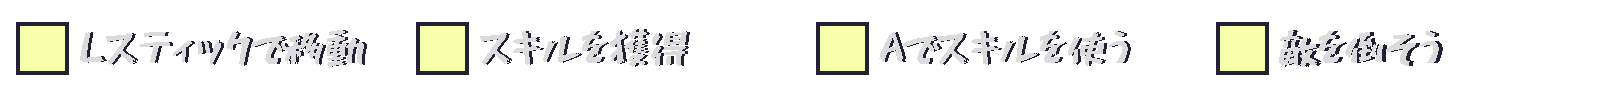
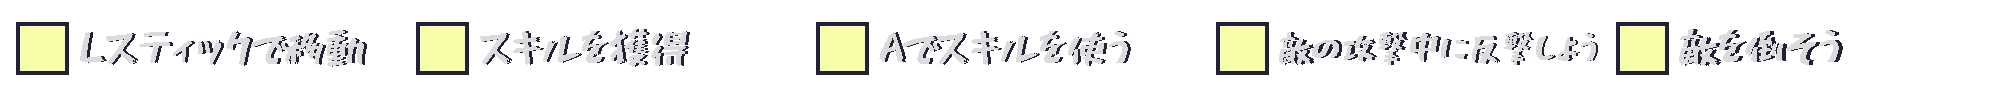
チュートリアルにカウンター追加(カウンタータスクを完了してない場合ダメージを喰らわない)

Changed region(s): [[0.0, 0.2188, 0.9375, 0.7812]]

diff --git a/SourceCode/gamesystem/character/InterEnemy.cpp b/SourceCode/gamesystem/character/InterEnemy.cpp
@@ -260,6 +260,7 @@ void InterEnemy::Collide(vector<unique_ptr<AttackArea>>& area) {
 					!GameStateManager::GetInstance()->GetCounter()) {
 					GameStateManager::GetInstance()->SetCounter(true);
 					damage *= 1.5f;
+					TutorialTask::GetInstance()->SetTaskFinish(true, TASK_COUNTER);
 				}
 				if (GameStateManager::GetInstance()->GetIsFivePower()) {
 					damage *= 1.2f;
@@ -287,6 +288,9 @@ void InterEnemy::Collide(vector<unique_ptr<AttackArea>>& area) {
 			m_Damege = true;
 			m_DamageTimer = {};
 			Helper::Clamp(damage, 0.0f, 999.0f);
+			if (m_EnemyTag == "Mob" && !TutorialTask::GetInstance()->GetTaskFinish(TASK_COUNTER)) {
+				damage = 0.0f;
+			}
 			m_HP -= damage;
 			GameStateManager::GetInstance()->DamageCheck((int)damage);
 			BirthDamage(damage);
@@ -295,7 +299,7 @@ void InterEnemy::Collide(vector<unique_ptr<AttackArea>>& area) {
 			if (name == "DRAIN") {
 				float rate = 0.5f;
 				player->HealPlayer(damage * rate);		//HP回復
-			} else if (name == "POISON") {
+			} else if (name == "POISON") {		//毒
 				m_Poison = true;
 				if (!m_IsVenom) {
 					m_PoisonToken += _area->GetPoisonToken();
@@ -304,12 +308,12 @@ void InterEnemy::Collide(vector<unique_ptr<AttackArea>>& area) {
 					m_SuperPoison = true;
 					m_PoisonToken += _area->GetPoisonToken() * 2;
 				}
-			} else if (name == "VENOM") {
+			} else if (name == "VENOM") {		//ヴェノム効果
 				if (m_Poison) {
 					m_PoisonToken *= 3;
 				}
 			}
-			else if (name == "FAR" && !m_Induction && m_NowWidth != PANEL_WIDTH - 1) {
+			else if (name == "FAR" && !m_Induction && m_NowWidth != PANEL_WIDTH - 1) {		//敵を吹き飛ばす
 				m_Induction = true;
 				m_InductionFrame = {};
 				for (int i = PANEL_WIDTH / 2; i < PANEL_WIDTH; i++) {
@@ -328,20 +332,18 @@ void InterEnemy::Collide(vector<unique_ptr<AttackArea>>& area) {
 					}
 				}
 			}
-			else if (name == "NEAR" && !m_Induction && m_NowWidth != PANEL_WIDTH / 2) {
+			else if (name == "NEAR" && !m_Induction && m_NowWidth != PANEL_WIDTH / 2) {		//敵を引き寄せる
 				m_Induction = true;
 				m_InductionFrame = {};
 				for(int i = PANEL_WIDTH - 1; i >= (PANEL_WIDTH / 2); i--) {
 
 					if (m_NowWidth == i) { continue; }
 					if (StagePanel::GetInstance()->GetisEnemyHit(i, m_NowHeight)) {
-
 						m_InductionPos = StagePanel::GetInstance()->GetPosition(i + 1, m_NowHeight).x;
 						break;
 					}
 					else {
 						if (i == PANEL_WIDTH / 2) {
-
 							m_InductionPos = StagePanel::GetInstance()->GetPosition(PANEL_WIDTH / 2, m_NowHeight).x;
 							break;
 						}

diff --git a/SourceCode/gamesystem/scene/TutorialTask.cpp b/SourceCode/gamesystem/scene/TutorialTask.cpp
@@ -25,13 +25,13 @@ void TutorialTask::Initialize() {
 			{ static_cast<float>(number_index_x) * l_Width_Cut, static_cast<float>(number_index_y) * l_Height_Cut },
 			{ static_cast<float>(l_Width_Cut), static_cast<float>(l_Height_Cut) });
 		tutorial[i].text->SetAnchorPoint({ 0.5f,0.5f });
-		tutorial[i].pos = { 1100.0f,200 + (80.0f * i) };
+		tutorial[i].pos = { 1020.0f,200 + (80.0f * i) };
 		tutorial[i].text->SetSize({ l_Width_Cut,l_Height_Cut });
 		tutorial[i].text->SetPosition(tutorial[i].pos);
 		tutorial[i].text->SetScale({ 0.8f });
 
 		tutorial[i].check = IKESprite::Create(ImageManager::TUTORIAL_CHECK, { 0.0f,0.0f });
-		tutorial[i].check->SetPosition({ 940.0f,200 + (80.0f * i) });
+		tutorial[i].check->SetPosition({ 860.0f,200 + (80.0f * i) });
 		tutorial[i].check->SetAnchorPoint({ 0.5f,0.5f });
 		tutorial[i].size = { 150.0f,150.0f };
 	}

diff --git a/SourceCode/gamesystem/scene/TutorialScene.cpp b/SourceCode/gamesystem/scene/TutorialScene.cpp
@@ -6,7 +6,7 @@
 #include <ImageManager.h>
 #include <TutorialTask.h>
 #include <Helper.h>
-#include "MobEnemy.h"
+#include "TutorialEnemy.h"
 #include <SceneManager.h>
 #include <StageBack.h>
 //��ԑJ��
@@ -65,7 +65,7 @@ void TutorialScene::Initialize(DirectXCommon* dxCommon) {
 
 	//敵
 	InterEnemy::SetPlayer(player_.get());
-	enemy = std::make_unique<MobEnemy>();
+	enemy = std::make_unique<TutorialEnemy>();
 	enemy->Initialize();
 
 	TutorialTask::GetInstance()->SetChoiceSkill(false);

diff --git a/SourceCode/gamesystem/scene/BattleScene.cpp b/SourceCode/gamesystem/scene/BattleScene.cpp
@@ -295,13 +295,12 @@ void BattleScene::BackDraw(DirectXCommon* dxCommon) {
 //ImGui
 void BattleScene::ImGuiDraw() {
 	//GameStateManager::GetInstance()->ImGuiDraw();
-	StagePanel::GetInstance()->ImGuiDraw();
-	enemyManager->ImGuiDraw();
+	//StagePanel::GetInstance()->ImGuiDraw();
+	//enemyManager->ImGuiDraw();
 	player_->ImGuiDraw();
 }
 
 void BattleScene::Finalize() {
-
 }
 void BattleScene::SkipUpdate() {
 	if (GameStateManager::GetInstance()->GetGameStart()) { return; }

diff --git a/SourceCode/gamesystem/scene/TutorialTask.h b/SourceCode/gamesystem/scene/TutorialTask.h
@@ -8,6 +8,7 @@ enum TutorialState {
 	TASK_MOVE,
 	TASK_GET,
 	TASK_ATTACK,
+	TASK_COUNTER,
 	TASK_BREAK,
 };
 class TutorialTask {
@@ -40,7 +41,7 @@ public:
 	void SetViewSkill(const bool ViewSkill) { m_ViewSkill = ViewSkill; }
 
 private:
-	static const int TASK_MAX = 4;
+	static const int TASK_MAX = 5;
 private:
 	bool m_TaskFinish[TASK_MAX];
 
